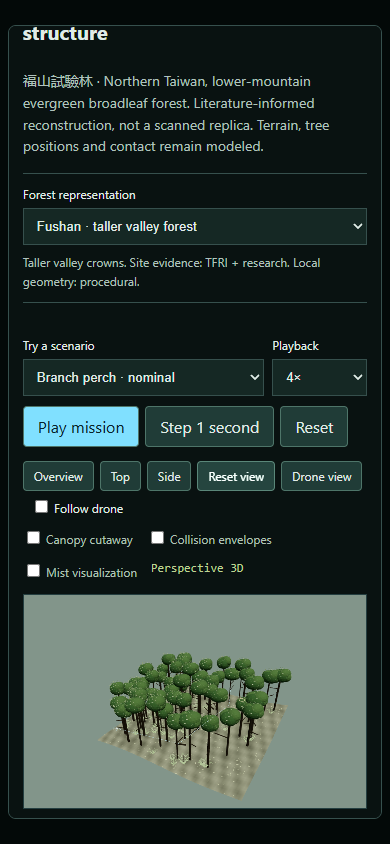
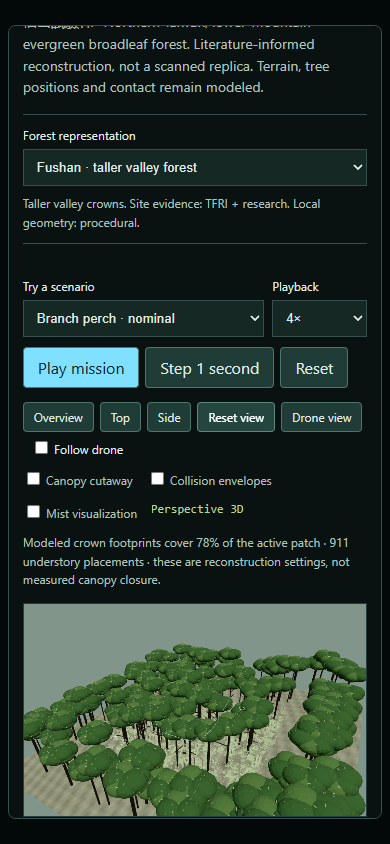
Simulator: densify Fushan canopy and ground cover

diff --git a/simulator/forest-renderer.js b/simulator/forest-renderer.js
@@ -36,16 +36,17 @@
   function rebuild(w){
    disposeGroup(terrainGroup);disposeGroup(canopy);disposeGroup(colliders);world=w;
    const bounds=w.bounds||root.EagleForest.bounds,ground=w.ground||(()=>0),[W,H]=bounds;
-   const terrain=new T.PlaneGeometry(W,H,64,56),pos=terrain.attributes.position;
+   const margin=w.contextTrees?20:0,terrain=new T.PlaneGeometry(W+margin*2,H+margin*2,80,72),pos=terrain.attributes.position;
    const colors=[];
    for(let i=0;i<pos.count;i++){const x=pos.getX(i)+W/2,y=pos.getY(i)+H/2,z=ground(x,y);pos.setXYZ(i,x,y,z);const c=new T.Color(C.earth),near=Math.min(3,...(w.trees||[]).map(t=>Math.hypot(t.x-x,t.y-y)));c.multiplyScalar((.85+.18*Math.sin(x*1.7+y*.7)+.08*Math.cos(y*2))*(.6+near*.13));colors.push(c.r,c.g,c.b);}
    terrain.setAttribute('color',new T.Float32BufferAttribute(colors,3));terrain.computeVertexNormals();terrainGroup.add(new T.Mesh(terrain,new T.MeshStandardMaterial({vertexColors:true,roughness:1,side:T.DoubleSide})));
-   const woody=[];for(const t of w.trees||[]){woody.push({a:[t.x,t.y,t.z],b:[t.x,t.y,t.z+t.h],r:t.r});woody.push(...t.branches);}woody.push(...w.logs||[]);tubes(woody,terrainGroup,C.bark);
+   const trees=[...w.trees||[],...w.contextTrees||[]];
+   const woody=[];for(const t of trees){woody.push({a:[t.x,t.y,t.z],b:[t.x,t.y,t.z+t.h],r:t.r});woody.push(...t.branches);}woody.push(...w.logs||[]);tubes(woody,terrainGroup,C.bark);
    // Leaf clusters use instancing: a varied evergreen crown, not one solid block.
-   const trees=w.trees||[],leafGeometry=new T.IcosahedronGeometry(1,2),leafMaterial=new T.MeshStandardMaterial({color:C.leaf,roughness:1,flatShading:true});
-   const crowns=new T.InstancedMesh(leafGeometry,leafMaterial,trees.length*7),dummy=new T.Object3D();
-   let k=0;for(const t of trees)for(let j=0;j<7;j++){
-    const a=j*Math.PI*2/6,sz=t.crownScale;dummy.position.set(t.x+Math.cos(a)*sz[0]*.32,t.y+Math.sin(a)*sz[1]*.32,t.crown[2]+(j===6?sz[2]*.2:-.3));dummy.scale.set(sz[0]*.65,sz[1]*.65,sz[2]*(j===6?.65:.7));dummy.rotation.set(0,0,j*.7);dummy.updateMatrix();crowns.setMatrixAt(k,dummy.matrix);crowns.setColorAt(k,new T.Color(j%3?C.leaf:C.leafLight));k++;
+   const leafGeometry=new T.IcosahedronGeometry(1,2),leafMaterial=new T.MeshStandardMaterial({color:C.leaf,roughness:1,flatShading:true});
+   const crowns=new T.InstancedMesh(leafGeometry,leafMaterial,trees.length*9),dummy=new T.Object3D();
+   let k=0;for(const t of trees)for(let j=0;j<9;j++){
+    const a=j*Math.PI/4,sz=t.crownScale;dummy.position.set(t.x+Math.cos(a)*sz[0]*.40,t.y+Math.sin(a)*sz[1]*.40,t.crown[2]+(j===8?sz[2]*.2:Math.sin(j*2.7)*.35));dummy.scale.set(sz[0]*.57,sz[1]*.57,sz[2]*(j===8?.65:.64));dummy.rotation.set(0,0,j*.7);dummy.updateMatrix();crowns.setMatrixAt(k,dummy.matrix);crowns.setColorAt(k,new T.Color(j%3?C.leaf:C.leafLight));k++;
    }if(trees.length)canopy.add(crowns);
    // Individual broadleaf silhouettes break up crown edges; distribution is procedural.
    const leafShape=new T.Shape();leafShape.moveTo(0,-1);leafShape.quadraticCurveTo(-.7,-.1,0,1);leafShape.quadraticCurveTo(.7,-.1,0,-1);
@@ -54,18 +55,19 @@
    k=0;for(const t of trees)for(let j=0;j<100;j++){
     const a=j*2.399963,zz=2*(j+.5)/100-1,rr=Math.sqrt(1-zz*zz);dummy.position.set(t.x+Math.cos(a)*rr*t.crownScale[0]*.93,t.y+Math.sin(a)*rr*t.crownScale[1]*.93,t.crown[2]+zz*t.crownScale[2]*.9);dummy.rotation.set(Math.sin(j)*1.8,Math.cos(j*3)*2,a);dummy.scale.set(.22,.30,.22);dummy.updateMatrix();leaves.setMatrixAt(k++,dummy.matrix);
    }if(trees.length)canopy.add(leaves);
-   const shrubs=(w.ferns||[]).filter((_,i)=>i%3===0);tubes(shrubs.map(f=>({a:[f.x,f.y,f.z],b:[f.x,f.y,f.z+f.h*.9],r:.025})),terrainGroup,C.bark);
+   const shrubs=(w.ferns||[]).filter((f,i)=>f.layer==='sapling'||(f.layer!=='ground'&&i%4===0));tubes(shrubs.map(f=>({a:[f.x,f.y,f.z],b:[f.x,f.y,f.z+f.h*.9],r:.025})),terrainGroup,C.bark);
    const understory=new T.InstancedMesh(leafGeo.clone(),leafMat.clone(),shrubs.length*36);k=0;
    for(const f of shrubs)for(let j=0;j<36;j++){const a=j*2.4,h=(j%9)/9*f.h,rr=.25+.45*Math.sin(h/f.h*Math.PI);dummy.position.set(f.x+Math.cos(a)*rr,f.y+Math.sin(a)*rr,f.z+h+.2);dummy.rotation.set(.3*Math.sin(j),.7*Math.cos(j),a);dummy.scale.set(.18,.32,.18);dummy.updateMatrix();understory.setMatrixAt(k++,dummy.matrix);}if(shrubs.length)terrainGroup.add(understory);
    const fernVerts=[];for(const f of w.ferns||[]){for(let j=0;j<8;j++){
     const a=f.angle+j*Math.PI/4,dx=Math.cos(a),dy=Math.sin(a);
-    for(let n=1;n<7;n++){const u=n/7,l=f.h*.6*u,zz=f.z+f.h*Math.sin(u*Math.PI*.75)*.6,wide=f.h*.13*(1-u);
-     for(const side of [-1,1])fernVerts.push(f.x+dx*l,f.y+dy*l,zz,f.x+dx*(l+.2)-dy*wide*side,f.y+dy*(l+.2)+dx*wide*side,zz-.08,f.x+dx*(l+.32),f.y+dy*(l+.32),zz-.03);
+    for(let n=1;n<9;n++){const u=n/9,spread=f.spread||f.h*.6,l=spread*1.3*u,zz=f.z+f.h*Math.sin(u*Math.PI*.9)*.65,wide=spread*.26*(1-u);
+     for(const side of [-1,1])fernVerts.push(f.x+dx*l,f.y+dy*l,zz,f.x+dx*(l+.12)-dy*wide*side,f.y+dy*(l+.12)+dx*wide*side,zz-.04,f.x+dx*(l+.22),f.y+dy*(l+.22),zz-.02);
     }
    }}const fg=new T.BufferGeometry();fg.setAttribute('position',new T.Float32BufferAttribute(fernVerts,3));fg.computeVertexNormals();terrainGroup.add(new T.Mesh(fg,new T.MeshStandardMaterial({color:C.fern,side:T.DoubleSide,roughness:1})));
    // Fallen leaves and rocks provide local scale; decorative, not a surface survey.
-   const pebbles=new T.InstancedMesh(new T.IcosahedronGeometry(1,0),new T.MeshStandardMaterial({color:C.moss,roughness:1}),450);
-   for(let i=0;i<450;i++){const x=(Math.sin(i*78.23)*234.7%1+1)%1*W,y=(Math.sin(i*21.78)*921.3%1+1)%1*H;dummy.position.set(x,y,ground(x,y)+.03);dummy.rotation.set(0,0,i*1.6);dummy.scale.set(.12+(i%4)*.08,.06+(i%3)*.05,.035);dummy.updateMatrix();pebbles.setMatrixAt(i,dummy.matrix);}terrainGroup.add(pebbles);
+   const litterCount=w.trees?2400:450,pebbles=new T.InstancedMesh(new T.IcosahedronGeometry(1,0),new T.MeshStandardMaterial({color:C.moss,roughness:1}),litterCount);
+   for(let i=0;i<litterCount;i++){const x=(Math.sin(i*78.23)*234.7%1+1)%1*W,y=(Math.sin(i*21.78)*921.3%1+1)%1*H;dummy.position.set(x,y,ground(x,y)+.03);dummy.rotation.set(0,0,i*1.6);dummy.scale.set(.12+(i%4)*.08,.06+(i%3)*.05,.035);dummy.updateMatrix();pebbles.setMatrixAt(i,dummy.matrix);}terrainGroup.add(pebbles);
+   if(w.contextTrees){const outline=[];for(const [a,b] of [[[0,0],[W,0]],[[W,0],[W,H]],[[W,H],[0,H]],[[0,H],[0,0]]])for(let i=0;i<=24;i++){const x=a[0]+(b[0]-a[0])*i/24,y=a[1]+(b[1]-a[1])*i/24;outline.push(new T.Vector3(x,y,ground(x,y)+.08));}terrainGroup.add(new T.LineLoop(new T.BufferGeometry().setFromPoints(outline),new T.LineBasicMaterial({color:C.route,transparent:true,opacity:.25})));}
    for(const o of w.obstacles){
     const size=o.max.map((a,i)=>a-o.min[i]),geo=new T.BoxGeometry(...size),edges=new T.EdgesGeometry(geo);geo.dispose();const line=new T.LineSegments(edges,new T.LineBasicMaterial({color:C.wire,transparent:true,opacity:.35}));line.position.set(...o.min.map((a,i)=>(a+o.max[i])/2));colliders.add(line);
     if(!w.trees&&o.kind!=='boundary'){const mesh=new T.Mesh(new T.BoxGeometry(...size),new T.MeshStandardMaterial({color:o.kind==='foliage'?C.leaf:C.bark,transparent:true,opacity:.65}));mesh.position.copy(line.position);terrainGroup.add(mesh);}

diff --git a/simulator/forest-site.js b/simulator/forest-site.js
@@ -12,12 +12,12 @@
   function build(scenario,variant='fushan'){
     const ridge=variant==='fushan-ridge';
     let seed=73219;const rand=()=>{seed=(Math.imul(1664525,seed)+1013904223)>>>0;return seed/4294967296;};
-    const trees=[],obstacles=[],ferns=[],logs=[];
+    const trees=[],obstacles=[],ferns=[],logs=[],contextTrees=[];
     const addBox=(id,min,max,kind)=>obstacles.push({id,min,max,kind});
     const limb=(id,a,b,r)=>{const min=a.map((v,i)=>Math.min(v,b[i])-r),max=a.map((v,i)=>Math.max(v,b[i])+r);addBox(id,min,max,'branch');return {a,b,r};};
     const reserved=(x,y)=>Math.hypot(x-4,y-4)<3||Math.hypot(x-41,y-5)<3||(x>27&&Math.abs(y-28)<5.8)||(x>27&&Math.abs(y-12)<5.8);
     function tree(x,y,h,r,support){
-      const z=ground(x,y),tr={x,y,z,h,r,branches:[],crown:[x,y,z+h-1],crownScale:[2.2+rand(),2+rand(),2.4],support};trees.push(tr);
+      const z=ground(x,y),tr={x,y,z,h,r,branches:[],crown:[x,y,z+h-1],crownScale:[3.6+rand(),3.4+rand(),2.4],support};trees.push(tr);
       addBox('trunk '+trees.length,[x-r,y-r,z],[x+r,y+r,z+h],'trunk');
       if(!support){
         for(let j=0;j<2;j++){const angle=rand()*Math.PI*2,l=1.5+rand()*2,a=[x,y,z+h*(0.4+j*.19)],b=[x+Math.cos(angle)*l,y+Math.sin(angle)*l,a[2]+0.6];tr.branches.push(limb('branch '+trees.length+'-'+j,a,b,0.10));}
@@ -34,10 +34,23 @@
     const za=A.z+(ridge?3:7),zb=B.z+(ridge?2.5:6);
     A.branches.push(limb('support A',[35,28,za],[39,28,za],0.13));
     B.branches.push(limb('support B',[35,12,zb],[39,12,zb],0.12));
-    for(let i=0;i<95;i++){
-      const x=2+rand()*44,y=2+rand()*36;if(reserved(x,y))continue;const z=ground(x,y),h=1+rand()*2.5;
-      ferns.push({x,y,z,h,angle:rand()*6.28});
-      if(i%3===0)addBox('understory '+i,[x-.3,y-.3,z],[x+.3,y+.3,z+h],'understory');
+    // Layered ground cover continues beneath the former demonstration corridors.
+    // Only launch/landing footprints and immediate contact spaces are kept open.
+    const lowReserved=(x,y)=>Math.hypot(x-4,y-4)<2.2||Math.hypot(x-2,y-2)<1.8||Math.hypot(x-41,y-5)<2.3||Math.hypot(x-36,y-28)<1.8||Math.hypot(x-36,y-12)<1.8;
+    for(let i=0;i<950;i++){
+      const x=.5+rand()*47,y=.5+rand()*39;if(lowReserved(x,y))continue;
+      const z=ground(x,y),layer=rand(),h=layer<.55?.35+rand()*.65:layer<.9?.9+rand()*1.5:2.4+rand()*2;
+      const spread=layer<.55?.4+rand()*.4:.55+rand()*.55;
+      ferns.push({x,y,z,h,spread,layer:layer>.9?'sapling':layer<.55?'ground':'fern',angle:rand()*6.28});
+      if(h>.9){const r=layer>.9?.22:.38;addBox('understory '+i,[x-r,y-r,z],[x+r,y+r,z+h],'understory');}
+    }
+    // Render-only forest beyond the bounded flight patch, with no implied survey.
+    for(let i=0;i<100;i++){
+      const edge=i%4,u=rand(),offset=7+rand()*7;
+      const x=edge===0?-offset:edge===1?48+offset:u*72-12;
+      const y=edge===2?-offset:edge===3?40+offset:u*64-12;
+      const h=(ridge?5:12)+rand()*(ridge?3:5),z=ground(x,y);
+      contextTrees.push({x,y,z,h,r:.15+rand()*.25,branches:[],crown:[x,y,z+h-1],crownScale:[3.8+rand(),3.6+rand(),2.4]});
     }
     for(const [x,y,dx,dy] of [[10,17,5,2],[22,31,4,-2],[24,9,3,1]]){
       const a=[x,y,ground(x,y)+.3],b=[x+dx,y+dy,ground(x+dx,y+dy)+.3];logs.push(limb('fallen wood '+x,a,b,.24));
@@ -46,12 +59,14 @@
     const candidates=[
       {id:'Leaf crown',kind:'foliage',p:A.crown,reason:'Leaf cover gives no evidence of load-bearing support.'},
       {id:'Crowded fork',kind:'branch',p:[39,28,za+1],reason:'Trunk intersects the modeled rotor-clearance envelope.'},
-      {id:'Branch A',kind:'branch',p:[36,28,za+1],approach:[32,28,za+3],reason:scenario==='moving'?'Injected excessive support motion: reject before contact.':null},
-      {id:'Branch B',kind:'branch',p:[36,12,zb+1],approach:[32,12,zb+3],reason:null}
+      {id:'Branch A',kind:'branch',p:[36,28,za+1],approach:[32,28,za+(ridge?1.3:3)],reason:scenario==='moving'?'Injected excessive support motion: reject before contact.':null},
+      {id:'Branch B',kind:'branch',p:[36,12,zb+1],approach:[32,12,zb+(ridge?1.3:3)],reason:null}
     ];
     if(scenario==='landing')candidates.splice(2,2,{id:'Clearing',kind:'ground',p:[41,5,ground(41,5)+1],approach:[41,5,ground(41,5)+4],reason:null});
     const sx=ridge?2:4,sy=ridge?2:4;
-    return {profile,variant,obstacles,candidates,trees,ferns,logs,ground,bounds:profile.bounds,cell:2,start:[sx,sy,ground(sx,sy)+(ridge?2:3)],speed:1.2};
+    let covered=0;for(let x=.5;x<48;x++)for(let y=.5;y<40;y++)if(trees.some(t=>((x-t.x)/t.crownScale[0])**2+((y-t.y)/t.crownScale[1])**2<=1))covered++;
+    const metrics={crownProjection:covered/(48*40),understory:ferns.length,contextTrees:contextTrees.length};
+    return {profile,variant,obstacles,candidates,trees,contextTrees,ferns,logs,ground,metrics,bounds:profile.bounds,cell:2,start:[sx,sy,ground(sx,sy)+(ridge?2:3)],speed:1.2};
   }
   const api={profile,ground,build};if(typeof module!=='undefined')module.exports=api;else root.EagleForestSite=api;
 })(globalThis);

diff --git a/simulator/forest-panel.js b/simulator/forest-panel.js
@@ -18,6 +18,7 @@
         <div class="seg"><button id="forest-play">Play mission</button><button id="forest-step">Step 1 second</button><button id="forest-reset">Reset</button></div>
         <div class="forest-view-controls" aria-label="Camera controls"><button id="forest-view-orbit">Overview</button><button id="forest-view-top">Top</button><button id="forest-view-side">Side</button><button id="forest-view-reset">Reset view</button><button id="forest-view-pov">Drone view</button><label><input id="forest-follow" type="checkbox"> Follow drone</label></div>
         <div class="forest-layer-controls"><label><input id="forest-cutaway" type="checkbox"> Canopy cutaway</label><label><input id="forest-collision" type="checkbox"> Collision envelopes</label><label><input id="forest-mist" type="checkbox"> Mist visualization</label><span id="forest-renderer-state"></span></div>
+        <p id="forest-cover-note" class="hint"></p>
         <canvas id="forest-map" width="900" height="490" tabindex="0" aria-label="Interactive 3D forest. Drag to orbit; scroll to zoom; right-drag or shift-drag to pan. Arrow keys orbit; plus and minus zoom; Home resets."></canvas>
         <p class="hint">Drag: orbit · scroll/pinch: zoom · right/shift-drag: pan. Cyan: route · cream: trail · gold: support. Route overlays show through foliage for explanation. Cutaway changes visibility, not collision geometry. Full synthetic map supplied.</p>
         <canvas id="forest-profile" width="900" height="140" aria-label="Flight altitude over elapsed simulated time"></canvas>
@@ -31,7 +32,7 @@
         <details><summary>Open-source building blocks</summary><p><a href="https://github.com/ZJU-FAST-Lab/ego-planner-swarm">EGO-Swarm</a>: navigation candidate (GPL-3.0). <a href="https://github.com/stephansturges/OpenLander">OpenLander</a>: clearing perception (MIT). <a href="https://github.com/JuliaDi/Tree-Perching-Code">SLAP code</a>: trunk perch/recovery reference (MIT; motion capture/operator inputs). <a href="https://github.com/YassinBaraa/Diplomski_rad">Pi/Hailo branch prototype</a>: close hardware match; motion capture and unresolved license. None is bundled in this model.</p></details>
         <h3>Mission decisions</h3><ol id="forest-events"></ol>
       </aside></div>
-      <footer>Fushan is one Taiwanese forest type, not a proxy for every altitude or region. Local 48 × 40 m terrain, 54 major stems and understory are a seeded reconstruction; individual tree locations, support strength, wet grip and wind response are not measured. Mist is a visual sensitivity control, not a calibrated visibility model. <a href="../docs/taiwan-forest-analysis.md">Site analysis & evidence</a> · <a href="../docs/forest-navigation.md">Model contract</a></footer>
+      <footer>Fushan is one Taiwanese forest type, not a proxy for every altitude or region. The 48 × 40 m active patch, 54 major stems and dense understory are a seeded reconstruction. Surrounding trees are visual context outside the bounded flight model. Individual tree locations, support strength, wet grip and wind response are not measured. Mist is a visual sensitivity control, not a calibrated visibility model. <a href="../docs/taiwan-forest-analysis.md">Site analysis & evidence</a> · <a href="../docs/forest-navigation.md">Model contract</a></footer>
     </dialog>`;
   const el=id=>document.getElementById('forest-'+id),profile=el('profile').getContext('2d');
   let renderer=null;try{renderer=window.EagleForestRenderer.create(el('map'));}catch(error){console.warn('Forest WebGL fallback:',error.message);}
@@ -54,6 +55,8 @@
   function line(points,color,width=2,dash=[]){ctx.strokeStyle=color;ctx.lineWidth=width;ctx.setLineDash(dash);ctx.beginPath();points.forEach((p,i)=>{const q=project(p);i?ctx.lineTo(...q):ctx.moveTo(...q);});ctx.stroke();ctx.setLineDash([]);ctx.lineWidth=1;}
   function draw(){
     dirty=false;
+    const density=s.world.metrics;
+    el('cover-note').textContent=density?`Modeled crown footprints cover ${(density.crownProjection*100).toFixed(0)}% of the active patch · ${density.understory} understory placements · these are reconstruction settings, not measured canopy closure.`:'Original sparse block baseline.';
     if(renderer)renderer.render(s,view,{follow:el('follow').checked,cutaway:el('cutaway').checked,collision:el('collision').checked,mist:el('mist').checked,pov});
     if(ctx){
     ctx.fillStyle='#0b1718';ctx.fillRect(0,0,900,490);ctx.font='13px monospace';

diff --git a/docs/taiwan-forest-analysis.md b/docs/taiwan-forest-analysis.md
@@ -32,9 +32,11 @@ A useful flight requirement is therefore “reach an observable structural suppo
 
 ## What the revised lab represents
 
-The default scene is now a 48 × 40 m procedural patch with sloping ground, 54 major stems, branching wood, irregular broadleaf crowns, 95 attempted understory placements (some excluded), ferns and three fallen logs. These counts, local slopes, object dimensions and placements are **model choices**, not census-derived density or actual Fushan tree positions. Some spaces around candidate supports are deliberately reserved for demonstrable approaches. This is not evidence that those gaps exist in the field.
+The default scene is a 48 × 40 m procedural patch with sloping ground, 54 major stems, branching wood, overlapping broadleaf crowns, 911 retained understory placements and three fallen logs. Of 950 seeded planting attempts, immediate launch/landing/contact footprints exclude 39. Low plants continue beneath the former broad demonstration corridors; taller represented understory is included in the planner's obstacle envelopes. These counts, local slopes, dimensions and placements are **model choices**, not census-derived density or actual Fushan tree positions. Major-stem approach spaces remain deliberately reserved. This is not evidence that those gaps exist in the field.
 
-Valley and exposed-ridge presets retain the same modeled terrain and major stem positions while changing canopy height, support examples and the starting point. The ridge entry point was moved to a clear synthetic patch; this is a demonstration setup, not evidence of a measured launch site. These presets support inspecting structural differences, not a controlled performance comparison between actual valley and ridge routes.
+The sum-of-union crown-footprint model covers approximately 78% of the active patch when sampled on a 1 m horizontal grid. This is an estimate of projected modeled crown envelopes, not measured Fushan canopy closure, leaf-area index or hemispherical light transmission. Visual context adds 100 trees outside the flight bounds and extends the rendered ground, so the scene does not end at a bare rectangular diorama. Those outer trees are not part of flight planning.
+
+Valley and exposed-ridge presets retain the same modeled terrain and major stem positions while changing canopy height, support examples and the starting point. The ridge entry point is a clear synthetic patch. Its terminal approach has been lowered to pass beneath the enlarged crown envelopes rather than descending through them. These are demonstration setups, not measured routes or launch sites. The presets support inspecting structural differences, not a controlled performance comparison between actual valley and ridge routes.
 
 The 3D renderer offers orbit, pan, zoom, drone viewpoint, canopy cutaway, collision envelopes and a mist visualization. Crowns and branches have visible volume; the underlying collision geometry remains conservative axis-aligned boxes. Visual leaves/ground litter do not add individually resolved collision surfaces. Neither photorealism nor complete thin-branch detection is claimed.
 

diff --git a/docs/forest-navigation.md b/docs/forest-navigation.md
@@ -6,6 +6,8 @@ The lab now opens a perspective WebGL scene informed by [Fushan site evidence](t
 
 The Fushan patch is 48 × 40 × 38 m, with a 2 m planning grid, a 1.2 m/s illustrative transit speed and 0.7 m/s terminal motion. Terrain clearance is sampled at 0.25 m intervals. Endpoint attachment searches the nearest reachable local grid vertex rather than assuming rounded coordinates are clear. These are software model settings, not field-derived operating limits. The original block-world settings described below apply only to the comparison baseline.
 
+Dense cover revision: 911 low-cover/fern/sapling placements replace the sparse understory, enlarged crown envelopes overlap across about 78% of the active patch in horizontal projection, and 100 visual-context trees surround its boundary. The interface labels the coverage figure as modeled. Taller represented understory and enlarged crowns affect collision checks; finest leaves and litter remain visual detail. Ridge approaches now enter beneath crowns. Ground texture, fern fronds, leafy shrubs and layered crown meshes use instanced rendering to retain interactive camera controls.
+
 **Drone view** places the camera at the aircraft. **Canopy cutaway** hides crowns for inspection, **Collision envelopes** reveals the boxes actually used by the planner, and **Mist visualization** changes visual range without changing sensor validity or collision geometry. The route overlay is intentionally visible through vegetation. All are explanatory display controls.
 
 The renderer uses locally bundled Three.js r128 with its MIT license in `simulator/vendor/three-r128/`, matching the version already used by the main Jungle Simulator. The focused forest page needs no external assets. If WebGL initialization fails, the existing canvas projection remains as a labeled fallback. Idle scenes render only when changed; playback and interaction redraw the scene.

diff --git a/docs/build-log.md b/docs/build-log.md
@@ -1,5 +1,11 @@
 # Build log
 
+## 2026-11-07 · Dense understory and overlapping canopy
+
+Expanded Fushan crown envelopes and layered meshes from isolated crowns into overlapping cover. A 1 m sample grid reports about 78% modeled crown-footprint coverage; the interface explicitly distinguishes this from measured canopy closure. Added 911 retained low-cover, fern and sapling placements, removing the broad ground-level vegetation exclusions while retaining immediate launch/landing/contact footprints. Taller represented understory affects collision checks. One hundred context trees and extended rendered ground outside the active flight bounds remove the bare diorama edge. Added denser litter and wider, more detailed fern fronds, with instanced leafy shrubs.
+
+Enlarged crowns blocked the old ridge terminal descent; lowered the approach to enter beneath them instead of removing geometry. All 18 baseline/valley/ridge scenarios passed their termination, clearance, support and recovery checks. Density checks require over 850 understory placements and projected crown coverage between 70% and 90%. Camera, display layers and mobile/browser checks are in check-forest.cjs. Updated screenshots document the result. All density/coverage settings remain procedural, not a surveyed Fushan reconstruction.
+
 ## 2026-11-07 · Fushan evidence and ecological reconstruction
 
 Replaced the default generic block display with a Fushan-informed perspective forest. Added primary-source context from TFRI and published canopy, understory-light and typhoon studies. The site analysis explicitly separates historical measurements, engineering inferences and invented local geometry; actual tree census and topographic stake data have not been obtained. A coarse DEM spot check was not adopted because registration to the surveyed plot was unresolved.
